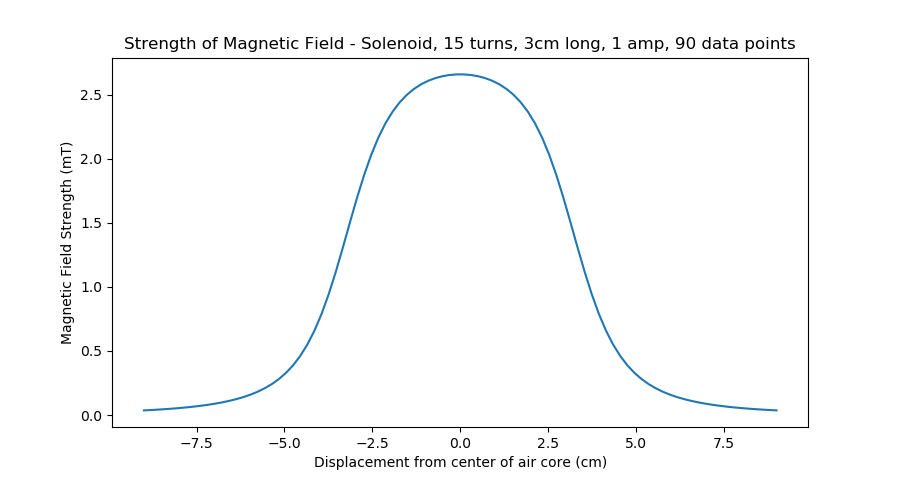
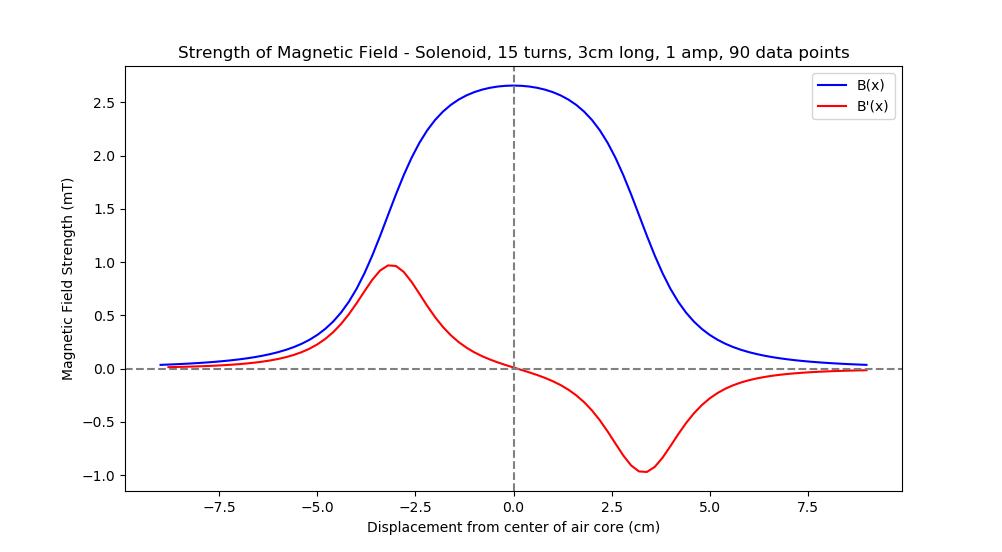
added legend and derivative

diff --git a/magnetism.py b/magnetism.py
@@ -6,7 +6,7 @@ from magpylib.source.current import Circular
 from magpylib import Collection 
 
 TURNS = 15
-s = 90
+s = 91
 LENGTH = 3
 CURRENT = 1
 
@@ -28,12 +28,18 @@ def mag(x):
 B = c1.getB(F_POS)[:s]
 mags = [ mag(x) for x in B ]
 z_pos = [d for d in zs]
+derivative = np.diff(mags)/np.diff(zs)
 print(mags)
 
 
-plt.plot(z_pos, mags)
-plt.title(f"Strength of Magnetic Field - Solenoid, {TURNS} turns, {LENGTH}cm long, {CURRENT} amp, {s} data points")
+plt.plot(z_pos, mags, 'blue', label='B(x)')
+plt.plot(z_pos[1:], derivative, 'red', label="B'(x)")
+plt.title(f"Strength of Magnetic Field - Solenoid, {TURNS} turns, {LENGTH}cm long, {CURRENT} amp, {s-1} data points")
 plt.xlabel('Displacement from center of air core (cm)')
 plt.ylabel(f'Magnetic Field Strength (mT)')
 
+plt.axhline(0, color='grey', ls='dashed')
+plt.axvline(0, color='grey', ls='dashed')
+
+plt.legend()
 plt.show()

diff --git a/README.md b/README.md
@@ -1,5 +1,5 @@
 This script visualized how the strength of the magnetic field on a body
-changes as the distance between the solenoid's air core and teh body changes.
+changes as the distance between the solenoid's air core and the body changes.
 
 By Syeam Bin Abdullah
 
